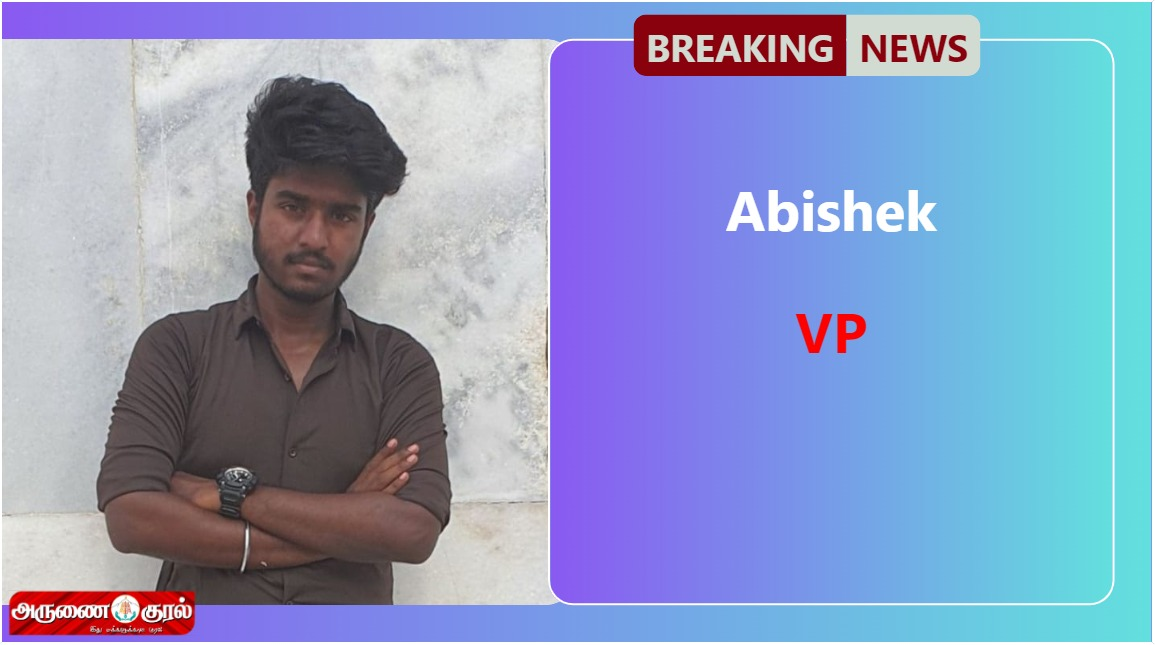
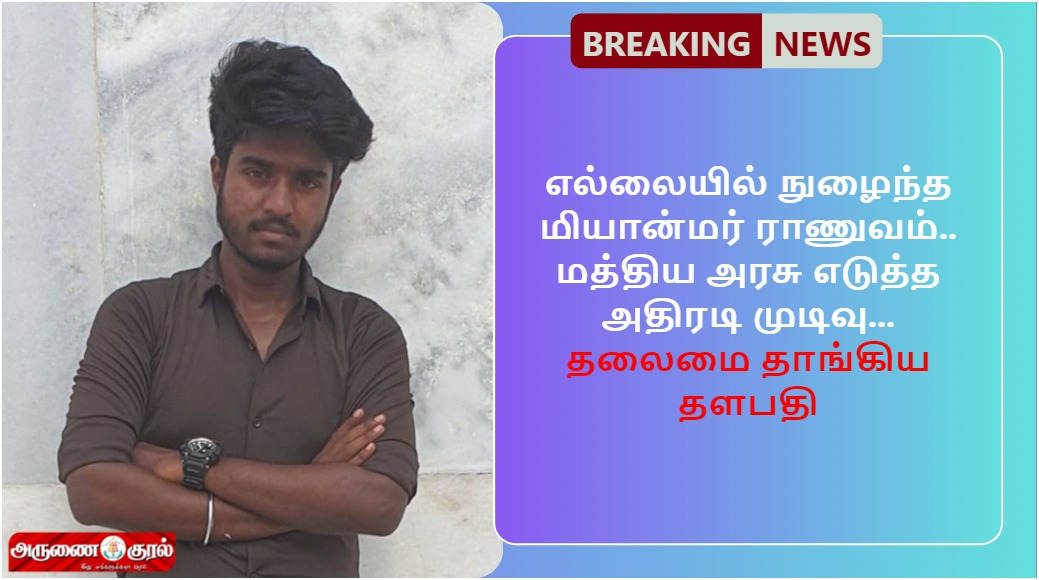
template 5

diff --git a/index.html b/index.html
@@ -29,6 +29,7 @@
         <option value="template2">Template 2</option>
         <option value="template3">Template 3</option>
         <option value="template4">Template 4</option>
+        <option value="template5">Template 5</option>
       </select>
     </div>
   </section>
@@ -233,6 +234,56 @@
           <span id="t-4-content3"></span>
         </h1>
       </div>
+    </div>
+  </section>
+
+
+  <section class="template-section-5 template">
+    <form>
+      <h2>Content Form</h2>
+      <label for="t-5-content_image">Content Image : </label>
+      <input type="file" name="t-5-content_image" id="t-5-content_image" accept="image/*" onchange="input_image(this,'t-5-main_image');"><br>
+      <label for="t-5-headline">Headline : </label>
+      <input type="text" name="t-5-headline" id="t-5-inpheadline" placeholder="Headline"><input type="color" id="t-5-color_headline"><br>
+      <label for="t-5-headline-font-size">Headline Font Size : </label>
+      <input type="number" name="t-5-headline-font-size" id="t-5-inpheadline-font-size" placeholder="Font Size"><br>
+      <label for="t-5-content">Content 1 : </label>
+      <input type="text" name="t-5-content" id="t-5-inpcontent1" placeholder="Content 1"><input type="color" id="t-5-color_content1"><br>
+      <label for="t-5-content">Content 2 : </label>
+      <input type="text" name="t-5-content" id="t-5-inpcontent2" placeholder="Content 2"><input type="color" id="t-5-color_content2"><br>
+      <label for="t-5-content">Content 3 : </label>
+      <input type="text" name="t-5-content" id="t-5-inpcontent3" placeholder="Content 3"><input type="color" id="t-5-color_content3"><br>
+      <label for="t-5-content">Content 4 : </label>
+      <input type="text" name="t-5-content" id="t-5-inpcontent4" placeholder="Content 4"><input type="color" id="t-5-color_content4"><br>
+      <label for="t-5-content-font-size">Content Font Size : </label>
+      <input type="number" name="t-5-content-font-size" id="t-5-inpcontent-font-size" placeholder="Font Size"><br>
+      <label for="t-5-credit_image">Credit Image : </label>
+      <input type="file" name="t-5-credit_image" accept="image/*" onchange="input_image(this,'t-5-credit_image');"><br>
+      <label for="date">Date :</label>
+      <input type="date" name="date" id="t-5-inpdate" placeholder="date"><input type="color" id="t-5-color_date"><br> 
+    </form>
+    <div class="template_5 template-image" id="template5">
+        <div class="t-5-top">
+          <div class="t-5-left">
+            <span id="jn-1">JUST NOW</span>
+            <span id="jn-2">SALEM</span>
+          </div>
+          <div class="t-5-right">
+            <span id="t-5-date">01-01-2024</span>
+          </div>
+        </div>
+        <P id="water-mark">JUST NOW SALEM</P>
+        <div class="t-5-main_image"><img id="t-5-main_image" src="./img/main_img.png" alt=""></div>
+        <div id="t-5-heading">
+            <p id="t-5-heading">மாநகராட்சி அதிகாரிகள் கவனத்திற்கு !</p>
+        </div>
+        <div class="t-5-content">
+            <p><span id="t-5-content1">This is default t-5-content This is default t-5-content This is default t-5-content This is default t-5-content This is default t-5-content This is default t-5-content This is default t-5-content This is default t-5-content This is default t-5-content This is default t-5-content</span><span id="t-5-content2">bla blacksheep repeat again</span><span id="t-5-content3">and again and again untill die</span><span id="t-5-content4">and again and again</span></p>
+        </div>
+        <img id="t-5-social-media" src="./img/credit-1.svg" alt="">
+        <div class="t-5-credit">
+          <img id="t-5-credit_image" src="./img/credit-temp.svg" alt="">
+        </div>
     </div>
   </section>
   

diff --git a/css/index.css b/css/index.css
@@ -122,7 +122,6 @@ body{
 
 /* template 1 */
 
-
 .template_1{
     width: 720px;
     height: 720px;
@@ -499,9 +498,11 @@ body{
     align-items: center;
 }
 .template_4 .main_img img{
+    position: absolute;
     max-height: 100%;
     max-width: 100%;
     margin: auto;
+    left: 0;
     border-radius: 0 25px 25px 0;
 }
 .template_4 #template_4-logo{
@@ -531,11 +532,131 @@ body{
     background-image: linear-gradient(to right, #8A59F1, #63DFDE);
     border: 2px solid white;
     border-radius: 20px;
+    display: flex;
+    justify-content: center;
+    align-items: center;
 }
 .template #t-4-content h1{
     padding: 10px 20px;
     font-size: 30px;
 }
+
+
+
+/* template 5 */
+
+.template_5{
+    position: fixed;
+    width: 720px;
+    height: 720px;
+}
+.template_5 .t-5-top .t-5-left{
+    position: absolute;
+    display: grid;
+    color: black;
+    text-align: center;
+    left: 5px;
+    top: 5px;
+    line-height: 100%;
+    border-radius: 10px 10px 10px 10px;
+    background-color: #C2020E;
+}
+.template_5 .t-5-left #jn-1{
+    color: white;
+    font-weight: bold;
+    width: min-content;
+    padding: 10px 13px 10px 13px;
+    background-color: #022866;
+    border-radius: 10px 10px 15px 15px;
+    font-family:'Trebuchet MS', 'Lucida Sans Unicode', 'Lucida Grande', 'Lucida Sans', Arial, sans-serif;
+}
+.template_5 .t-5-left #jn-2{
+    padding: 5px 5px 10px 5px;
+    font-weight: 600;
+    color: white;
+}
+.template_5 .t-5-top .t-5-right{
+    position: absolute;
+    right: 10px;
+    top: 5px;
+    background-color: red;
+    padding: 0;
+    margin: 0;
+}
+.template_5 .t-5-top .t-5-right{
+    padding: 5px 10px;
+    border-radius: 5px;
+    color: snow;
+}
+.template_5 .t-5-main_image{
+    width: 720px;
+    height: 300px;
+    display: flex;
+    justify-content: center;
+    align-items: center;
+    padding: 0;
+    margin: 0;
+    background:  linear-gradient(90deg, #370C28,#8E0123,#370C28);
+    /* background-color: snow; */
+    display: flex;
+    justify-content: center;
+    align-items: center;
+}
+.template_5 .t-5-main_image img{
+    height: 300px;
+    max-width: 100%;
+    padding: 0;
+    margin: 0;
+}
+.template_5 #t-5-heading{
+    color: black;
+    font-weight: bold;
+    font-size: 18px;
+    width: 100%;
+    margin: 0px 0 0 0;
+    padding: 5px 0;
+    text-align: center;
+    background-color: #F9D15F;
+}
+.template_5 #t-5-heading p{
+    padding: 10px 0;
+    margin: 0;
+}
+.template_5 .t-5-content{
+    background:  linear-gradient(90deg, #370C28,#8E0123,#370C28);
+    font-size: 22px;
+    height: 300px;
+    margin: 0;
+    top: 0;
+    padding-top: 1px;
+    text-align: justify;
+}
+.template_5 .t-5-content p{
+    padding: 10px 10px;
+    margin: 10px 10px 10px 10px;
+    border-radius: 10px;
+    font-weight: bold;
+    border: 1px solid snow;
+}
+.template_5 #t-5-social-media{
+    position: absolute;
+    left: 0;
+    bottom: 96px;
+}
+.template_5 .t-5-credit{
+    position: absolute;
+    bottom: 0;
+    left: 0;
+    right: 0;
+    width: 720px;
+    height: 96px;
+    background-color: white;
+}
+.template_5 .t-5-credit img{
+    height: 96px;
+    max-width: 100%;
+}
+
 
 @media only screen and (max-width: 1280px) {
         
@@ -620,7 +741,7 @@ body{
     }
     .template-image{
         position: fixed;
-        top: -800px;
+        top: 0px;
         right: 0px;
     }
 }

diff --git a/js/index.js b/js/index.js
@@ -165,6 +165,53 @@ function template4content(){
 
   $('#t-4-content').css({'font-size':inpcontentfontsize});
 }
+function template5content(){
+  var t_5_heading=frmid('t-5-inpheadline').value;
+  var contentdata1=frmid('t-5-inpcontent1').value;
+  var contentdata2=frmid('t-5-inpcontent2').value;
+  var contentdata3=frmid('t-5-inpcontent3').value;
+  var contentdata4=frmid('t-5-inpcontent4').value;
+  var inpdate=frmid('t-5-inpdate').value;
+  var inpheadlinefontsize=frmid('t-5-inpheadline-font-size').value+"px";
+  var inpcontentfontsize=frmid('t-5-inpcontent-font-size').value+"px";
+
+  var headline=frmid('t-5-heading');
+  var content1=frmid('t-5-content1');
+  var content2=frmid('t-5-content2');
+  var content3=frmid('t-5-content3');
+  var content4=frmid('t-5-content4');
+  var date=frmid('t-5-date');
+  
+  var headline_color=frmid('t-5-color_headline').value;
+  var color_content1=frmid('t-5-color_content1').value;
+  var color_content2=frmid('t-5-color_content2').value;
+  var color_content3=frmid('t-5-color_content3').value;
+  var color_content4=frmid('t-5-color_content4').value;
+
+  date.innerHTML=inpdate;
+
+  headline.innerHTML=t_5_heading;
+  headline.style.color=headline_color;
+  headline.style.fontSize=inpheadlinefontsize
+  
+  content1.innerHTML=contentdata1;
+  content1.style.color = color_content1;
+  
+  content2.innerHTML=contentdata2;
+  content2.style.color = color_content2;
+  
+  content3.innerHTML=contentdata3;
+  content3.style.color = color_content3;
+  
+  content4.innerHTML=contentdata4;
+  content4.style.color = color_content4;
+
+  $('#t-5-heading').css({'font-size':inpheadlinefontsize});
+  $('.t-5-content').css({'font-size':inpcontentfontsize});
+
+}
+
+
 
 
 function load_image(){
@@ -180,7 +227,6 @@ function preview(id){
     var link = document.createElement('a');
     link.href = imageData;
     frmid('preview').src = imageData;
-    // $('#preview').attr('src',imageData);
   });
 }
 
